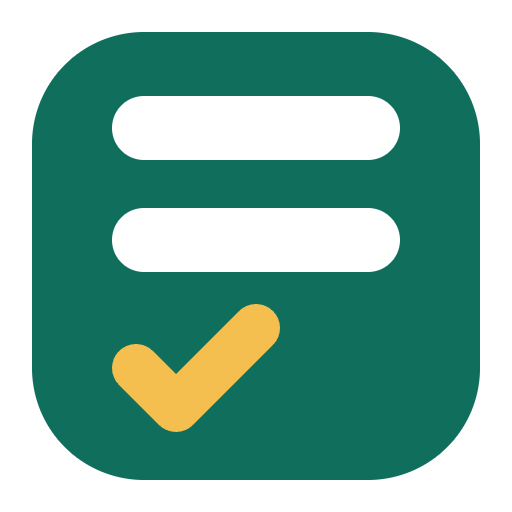
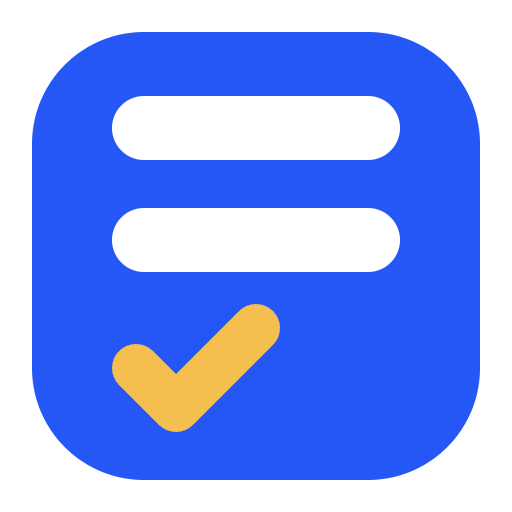
feat(brand): the mark takes Ligata's blue
The owner chose Ligata's blue, #2457F5, for the logo (ADR-0245). The
card is blue, the check stays marigold at 3.3:1 on it, and the blue has
5.6:1 on white and 3.2:1 on near-black. The PNGs are rendered again, the
brand doc names the colours and says the default theme keeps its
evergreen accent, a test pins the blue, and the phone screenshot's
ground takes a blue tint.

diff --git a/assets/brand.md b/assets/brand.md
@@ -7,7 +7,7 @@ with what arrives. The mark says that in two moves, and nothing more.
 
 A form card with two fields, and in the place of its submit button a check mark:
 
-- **The card,** evergreen, is the form. Its corners are round, as a card on a page is.
+- **The card,** blue, is the form. Its corners are round, as a card on a page is.
 - **The two fields** are cut out of the card, not painted white, so the mark sits on any background, light or dark.
 - **The check mark,** marigold, stands where the form's button would be, at the start of the last row, as the default
   theme puts the primary button. It is the form sent, and the entry safely kept.
@@ -18,20 +18,21 @@ is no Umbraco logo and no "U" in it: Jiron Form Builder is an Umbraco package, n
 
 ## Colours
 
-Two brand colours and one neutral. The evergreen is the default theme's accent, the colour a visitor's form gives its
-button and its chosen answers, so the mark and the forms it makes share it. The ink is the one the owner's other
-Jiron package uses beside its mark, so the family reads as one.
+Two brand colours and one neutral. The blue is Ligata's, the colour of the owner's company site (its `--accent`), so
+the mark reads as part of that family; the owner chose it on 2026-11-13 (ADR-0245). The ink is the one the owner's
+other Jiron package uses beside its mark. The forms themselves keep their own colours: the default theme's accent stays
+evergreen (`--jfb-color-accent`, `#0F6E5C`), as a visitor's form belongs to the site that shows it, not to us.
 
 | Name | Hex | Use |
 | --- | --- | --- |
-| **Evergreen** | `#0F6E5C` | The card; the default theme's accent (`--jfb-color-accent`) |
+| **Blue** | `#2457F5` | The card: Ligata's blue |
 | **Marigold** | `#F5BF4F` | The check mark, and only the check mark |
 | **Ink** | `#16181D` | The one-colour mark, and the name next to the mark |
 
-On white, evergreen has a contrast of 6.2:1, enough for text (WCAG AA), and the ink 17.8:1. The marigold check sits on
-the evergreen card at 3.7:1, enough for graphics (WCAG 1.4.11 asks 3:1), and never on the page itself, where it would
-have 1.7:1. On a near-black background (`#15171C`) the card keeps 2.9:1; where the mark must stand out on a dark
-ground, use the one-colour mark in white.
+On white, the blue has a contrast of 5.6:1, enough for text (WCAG AA), and the ink 17.8:1. The marigold check sits on
+the blue card at 3.3:1, enough for graphics (WCAG 1.4.11 asks 3:1), and never on the page itself, where it would have
+1.7:1. On a near-black background (`#15171C`) the card keeps 3.2:1, enough for graphics; where the mark must stand out
+more on a dark ground, use the one-colour mark in white.
 
 ## Files
 

diff --git a/docs/decisions/0245-the-mark-takes-ligatas-blue.md b/docs/decisions/0245-the-mark-takes-ligatas-blue.md
@@ -1,0 +1,29 @@
+# 0245. The mark takes Ligata's blue
+
+- Status: accepted (the owner, 2026-11-13)
+- Date: 2026-11-13
+- Roadmap step: 17.1 (the logo and icon)
+
+## Context
+
+Step 17.1 drew Jiron Form Builder's mark as an evergreen card with two fields cut out and a marigold check, the
+evergreen being the default theme's accent (`assets/brand.md`). During the phase review the owner wrote: "for form
+builder logo btw take the blue used in ligata.ch". The owner's message beats the plan (CLAUDE.md rule 8).
+
+## Decision
+
+1. **The card is Ligata's blue, `#2457F5`,** the `--accent` of the owner's company site, read from that site's own
+   style tokens, where every token file gives the same value. The two fields stay cut out and
+   the check stays marigold (`#F5BF4F`): on the blue card it has 3.3:1, enough for graphics (WCAG 1.4.11 asks 3:1). The
+   blue has 5.6:1 on white and 3.2:1 on near-black, so the colour mark now holds on a dark ground as well.
+2. **Only the mark changes.** The owner named the logo. The default theme's accent stays evergreen (`#0F6E5C`): it is a
+   visitor-facing colour with its own contrast audits, and a visitor's form belongs to the site that shows it. The
+   one-colour mark (ink, `currentColor`) and the backoffice's line icon (`currentColor`) are unchanged; the PNGs are
+   rendered again from `logo.svg`, and the phone screenshot's ground takes a blue tint instead of a green one.
+3. **A test pins the choice:** `scripts/tests/icons.test.mjs` fails unless the card is `#2457F5`.
+
+## Consequences
+
+- `assets/brand.md` names the colours Blue, Marigold and Ink, and says why the mark and the default theme differ.
+- Should the owner want the forms' default accent to follow, that is a change of the default theme (its tokens, its dark
+  scheme and its contrast checks) and of the screenshots, done as its own change.
